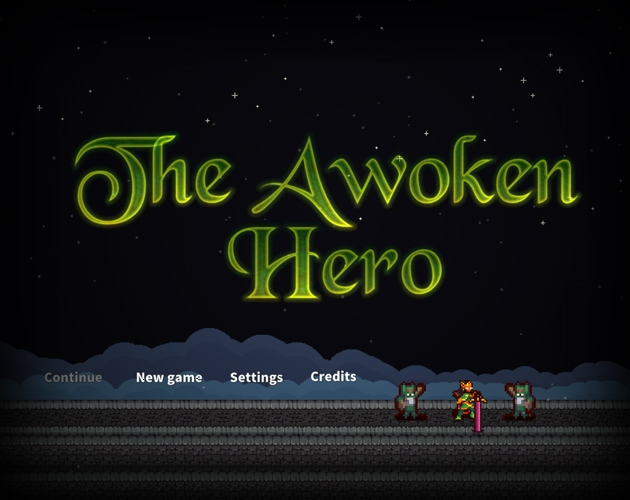
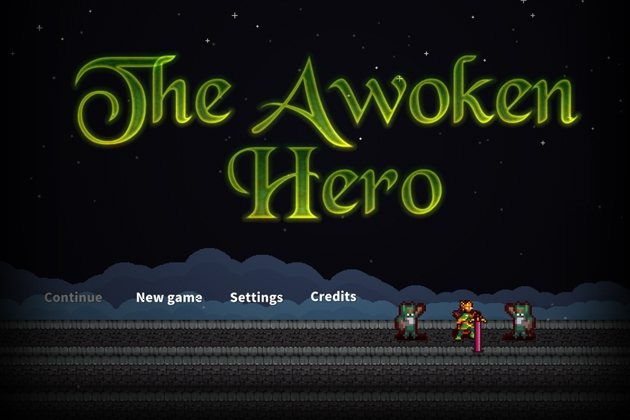
Updated few things

Changed region(s): [[0.0302, 0.1238, 0.9651, 0.8976]]

diff --git a/css/style.css b/css/style.css
@@ -178,8 +178,8 @@ nav{
 
 .main-img img{
 	width: 63rem;
-	height: 50rem;
-	margin-top: -4rem;
+	height: 42rem;
+	margin-top: 0rem;
 	border-radius: 10px;
 	margin-left: 60rem;
 	color: #fafafa;
@@ -207,7 +207,7 @@ nav{
 }
 
 .main-message p{
-	margin: 1rem 0;
+	margin-top: 1rem;
 	text-transform: lowercase;
 }
 
